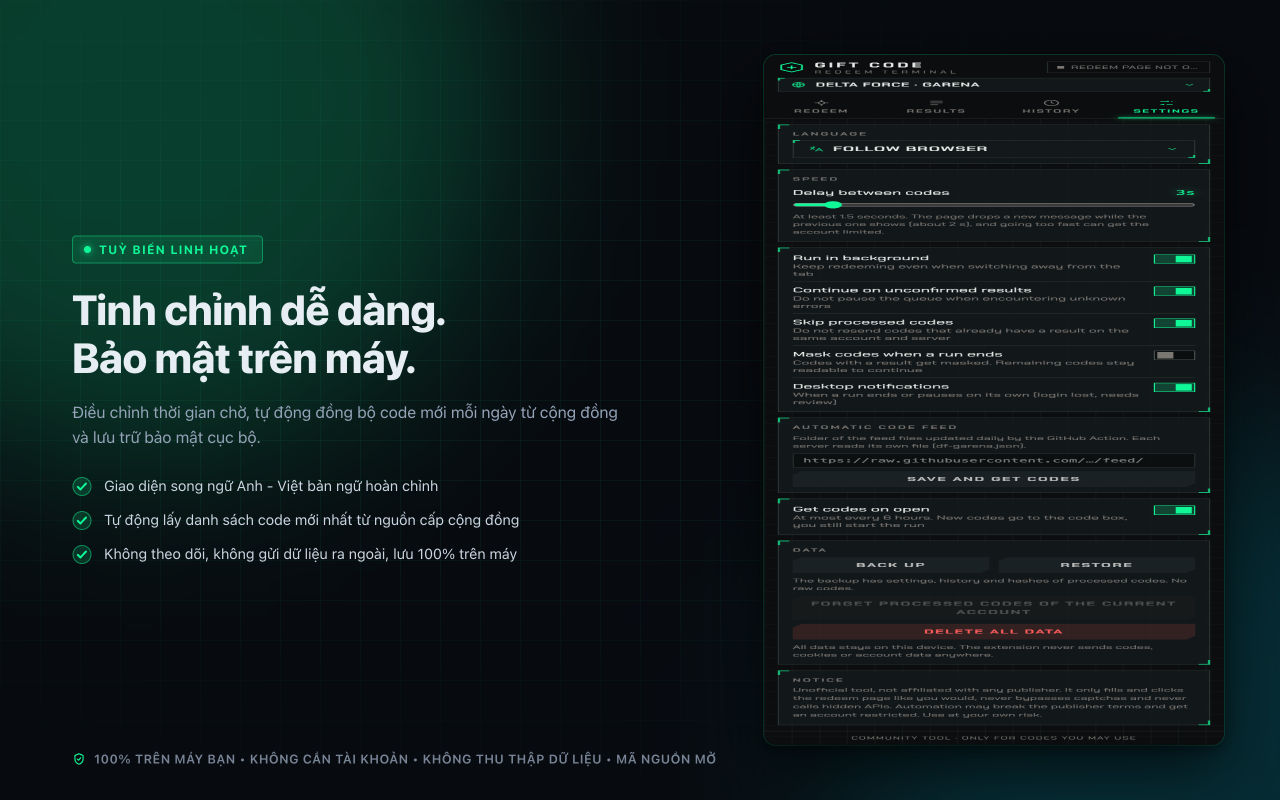
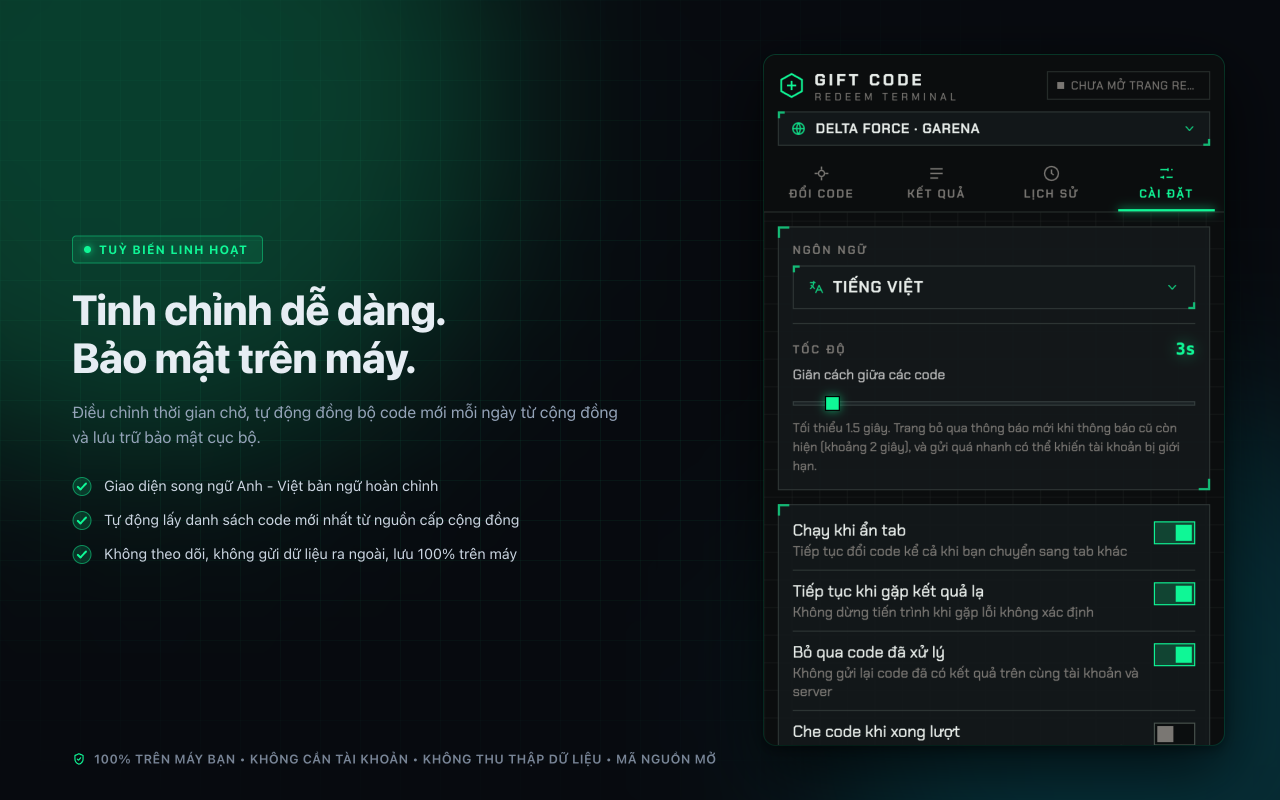
fix(store): fix aspect ratio squishing on settings screenshot and polish settings UI layout

Changed region(s): [[0.5938, 0.0625, 0.9688, 0.9375], [0.8125, 0.0625, 0.9375, 0.1562], [0.875, 0.3125, 0.9375, 0.5]]

diff --git a/src/entrypoints/sidepanel/tabs/SettingsTab.svelte b/src/entrypoints/sidepanel/tabs/SettingsTab.svelte
@@ -56,37 +56,41 @@ const hasKnown = $derived(!!runner.known[knownKey(runner.site.id, account)]);
 const running = $derived(!!runner.runningSite);
 </script>
 
-<section class="hud-panel p-3">
-  <label class="hud-label mb-1.5 block" for="language">{t('settings.language')}</label>
-  <Select
-    id="language"
-    icon="language"
-    size="md"
-    value={runner.settings.locale}
-    options={LANGUAGE_OPTIONS.map((opt) => ({
-      value: opt,
-      label: opt === 'auto' ? t('settings.languageAuto') : LOCALE_NAMES[opt],
-    }))}
-    onchange={(val) => runner.setLanguage(val as LocalePreference)}
-  />
-</section>
-
-<section class="hud-panel p-3">
-  <div class="hud-label mb-1">{t('settings.speed')}</div>
-  <div class="flex items-center justify-between py-2">
-    <span class="text-sm">{t('settings.delay')}</span>
-    <span class="glow-text font-mono text-sm">{delaySeconds}s</span>
+<section class="hud-panel relative z-20 flex flex-col gap-3 p-3">
+  <div>
+    <label class="hud-label mb-1.5 block" for="language">{t('settings.language')}</label>
+    <Select
+      id="language"
+      icon="language"
+      size="md"
+      value={runner.settings.locale}
+      options={LANGUAGE_OPTIONS.map((opt) => ({
+        value: opt,
+        label: opt === 'auto' ? t('settings.languageAuto') : LOCALE_NAMES[opt],
+      }))}
+      onchange={(val) => runner.setLanguage(val as LocalePreference)}
+    />
   </div>
-  <input
-    type="range"
-    class="w-full accent-df-accent"
-    min={MIN_DELAY_MS / 1000}
-    max="20"
-    step="0.5"
-    value={delaySeconds}
-    oninput={(event) => runner.saveSettings({ delayMs: Math.round(Number(event.currentTarget.value) * 1000) })}
-  />
-  <p class="mt-1 text-[11px] text-df-dim">{t('settings.delayHint', { min: MIN_DELAY_MS / 1000 })}</p>
+
+  <div class="border-t border-df-line pt-3">
+    <div class="flex items-center justify-between pb-1">
+      <span class="hud-label">{t('settings.speed')}</span>
+      <span class="glow-text font-mono text-sm font-semibold">{delaySeconds}s</span>
+    </div>
+    <div class="flex items-center justify-between pb-1.5 text-xs text-df-muted">
+      <span>{t('settings.delay')}</span>
+    </div>
+    <input
+      type="range"
+      class="w-full cursor-pointer accent-df-accent"
+      min={MIN_DELAY_MS / 1000}
+      max="20"
+      step="0.5"
+      value={delaySeconds}
+      oninput={(event) => runner.saveSettings({ delayMs: Math.round(Number(event.currentTarget.value) * 1000) })}
+    />
+    <p class="mt-1.5 text-[11px] text-df-dim">{t('settings.delayHint', { min: MIN_DELAY_MS / 1000 })}</p>
+  </div>
 </section>
 
 <section class="hud-panel divide-y divide-df-line px-3 py-1">
@@ -122,7 +126,7 @@ const running = $derived(!!runner.runningSite);
   />
 </section>
 
-<section class="hud-panel flex flex-col gap-2 p-3">
+<section class="hud-panel flex flex-col gap-2.5 p-3">
   <div class="hud-label">{t('settings.feed')}</div>
   <p class="text-[11px] text-df-dim">
     {t('settings.feedHint', { file: `${runner.site.feedKey}.json` })}
@@ -140,15 +144,15 @@ const running = $derived(!!runner.runningSite);
       {t('settings.feedLast', { time: lastSync, active: runner.feedSync.active, added: runner.feedSync.added })}
     </p>
   {/if}
-</section>
 
-<section class="hud-panel divide-y divide-df-line px-3 py-1">
-  <Toggle
-    label={t('settings.autoSync')}
-    hint={t('settings.autoSyncHint')}
-    checked={runner.settings.autoSyncFeed}
-    onchange={(value) => runner.saveSettings({ autoSyncFeed: value })}
-  />
+  <div class="border-t border-df-line pt-1">
+    <Toggle
+      label={t('settings.autoSync')}
+      hint={t('settings.autoSyncHint')}
+      checked={runner.settings.autoSyncFeed}
+      onchange={(value) => runner.saveSettings({ autoSyncFeed: value })}
+    />
+  </div>
 </section>
 
 <section class="hud-panel flex flex-col gap-2 p-3">

diff --git a/src/lib/i18n/vi.ts b/src/lib/i18n/vi.ts
@@ -158,7 +158,7 @@ export const vi: Record<MessageKey, string> = {
     'Mọi dữ liệu chỉ lưu trên máy này. Extension không gửi code, cookie hay thông tin tài khoản ra ngoài.',
   'settings.notice': 'Lưu ý',
   'settings.noticeBody':
-    'Đây là công cụ không chính thức, không liên kết với nhà phát hành. Extension chỉ điền và bấm trên trang đổi quà như bạn làm thủ công, không vượt captcha và không gọi API ẩn. Tự động hoá có thể trái điều khoản dịch vụ của nhà phát hành và dẫn tới khoá tài khoản. Bạn tự chịu trách nhiệm khi sử dụng.',
+    'Đây là công cụ cộng đồng, không liên kết với nhà phát hành. Extension chỉ điền và bấm trên trang đổi quà như bạn làm thủ công, không vượt captcha và không gọi API ẩn. Tự động hoá có thể trái điều khoản dịch vụ của nhà phát hành và dẫn tới khoá tài khoản. Bạn tự chịu trách nhiệm khi sử dụng.',
 
   'msg.noTab': 'Chưa mở trang redeem',
   'msg.notLoggedIn': 'Hãy đăng nhập trên trang redeem trước',

diff --git a/src/entrypoints/sidepanel/app.css b/src/entrypoints/sidepanel/app.css
@@ -206,4 +206,39 @@ body {
     padding: 8px 12px;
     font-family: var(--font-df);
   }
+
+  /* Tactical Cyber Range Slider */
+  input[type="range"] {
+    -webkit-appearance: none;
+    appearance: none;
+    height: 4px;
+    background: var(--color-df-panel-2);
+    border: 1px solid var(--color-df-line);
+    outline: none;
+  }
+  input[type="range"]::-webkit-slider-thumb {
+    -webkit-appearance: none;
+    appearance: none;
+    width: 13px;
+    height: 13px;
+    background: var(--color-df-accent);
+    border: 1px solid #000;
+    box-shadow: 0 0 8px rgb(15 247 150 / 0.6);
+    cursor: pointer;
+    transition:
+      transform 120ms ease,
+      box-shadow 120ms ease;
+  }
+  input[type="range"]::-webkit-slider-thumb:hover {
+    transform: scale(1.15);
+    box-shadow: 0 0 12px var(--color-df-accent);
+  }
+  input[type="range"]::-moz-range-thumb {
+    width: 13px;
+    height: 13px;
+    background: var(--color-df-accent);
+    border: 1px solid #000;
+    box-shadow: 0 0 8px rgb(15 247 150 / 0.6);
+    cursor: pointer;
+  }
 }

diff --git a/src/lib/i18n/en.ts b/src/lib/i18n/en.ts
@@ -159,7 +159,7 @@ export const en = {
     'All data stays on this device. The extension never sends codes, cookies or account data anywhere.',
   'settings.notice': 'Notice',
   'settings.noticeBody':
-    'Unofficial tool, not affiliated with any publisher. It only fills and clicks the redeem page like you would, never bypasses captchas and never calls hidden APIs. Automation may break the publisher terms and get an account restricted. Use at your own risk.',
+    'Community tool, not affiliated with any publisher. It only fills and clicks the redeem page like you would, never bypasses captchas and never calls hidden APIs. Automation may break the publisher terms and get an account restricted. Use at your own risk.',
 
   'msg.noTab': 'Redeem page not open',
   'msg.notLoggedIn': 'Log in on the redeem page first',
